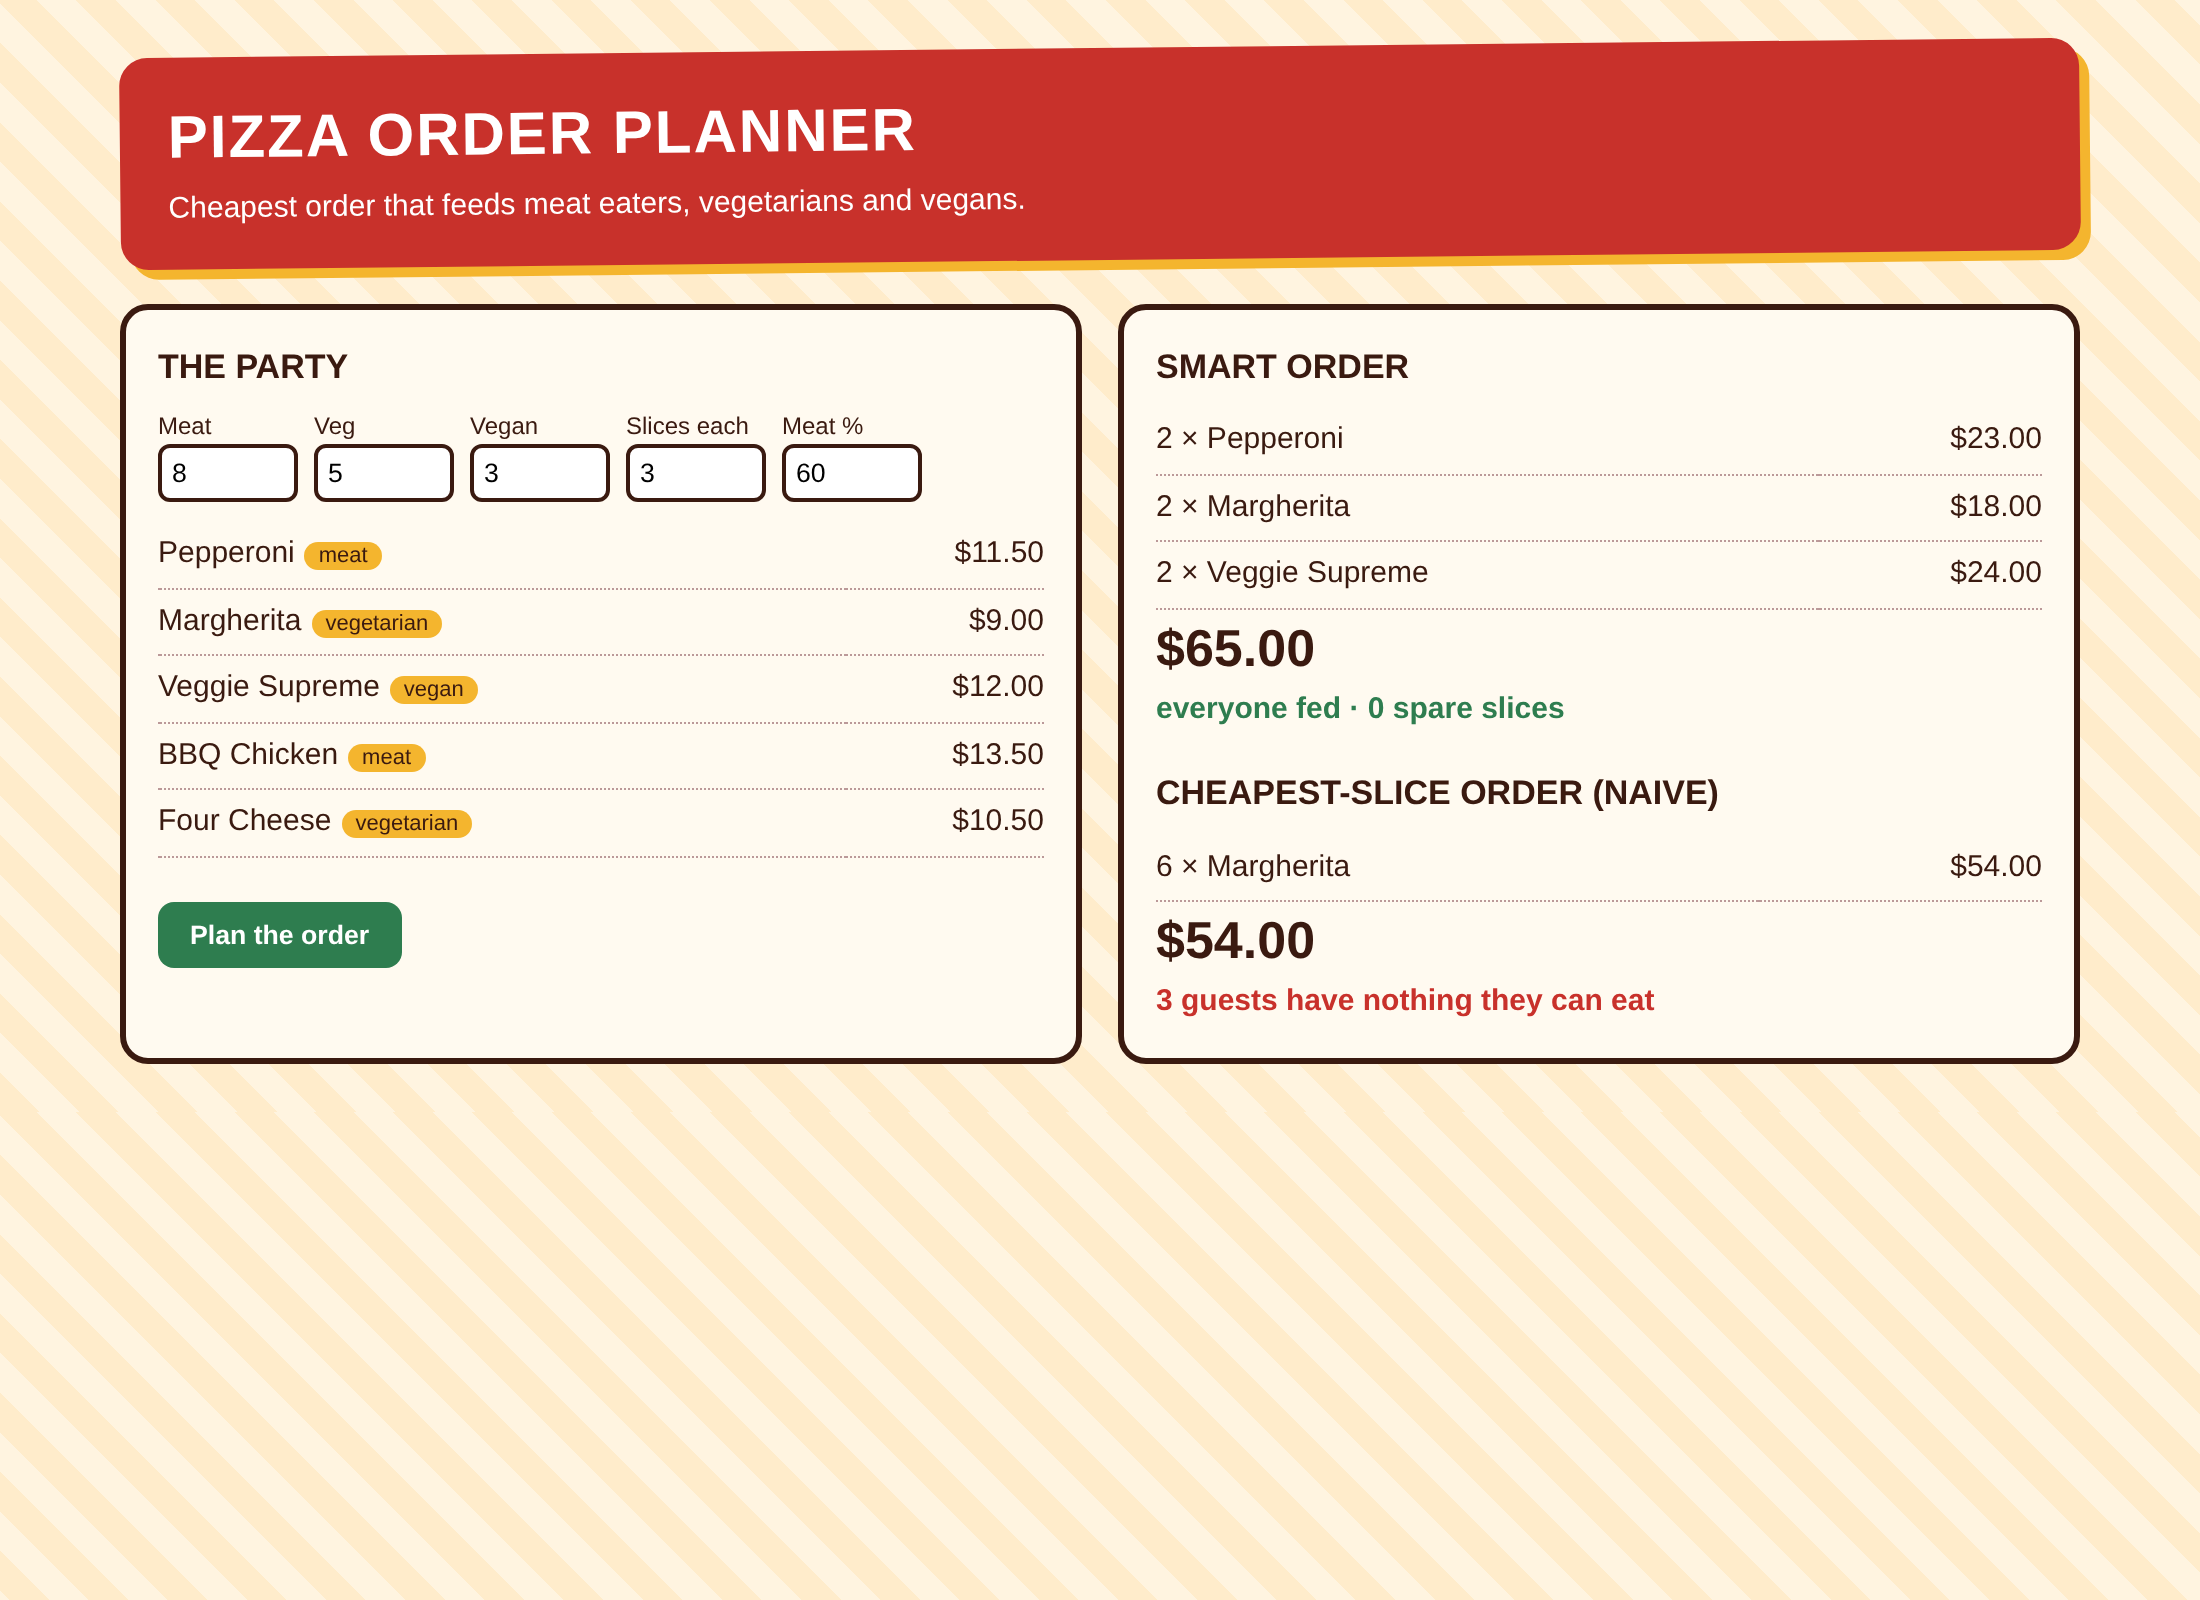
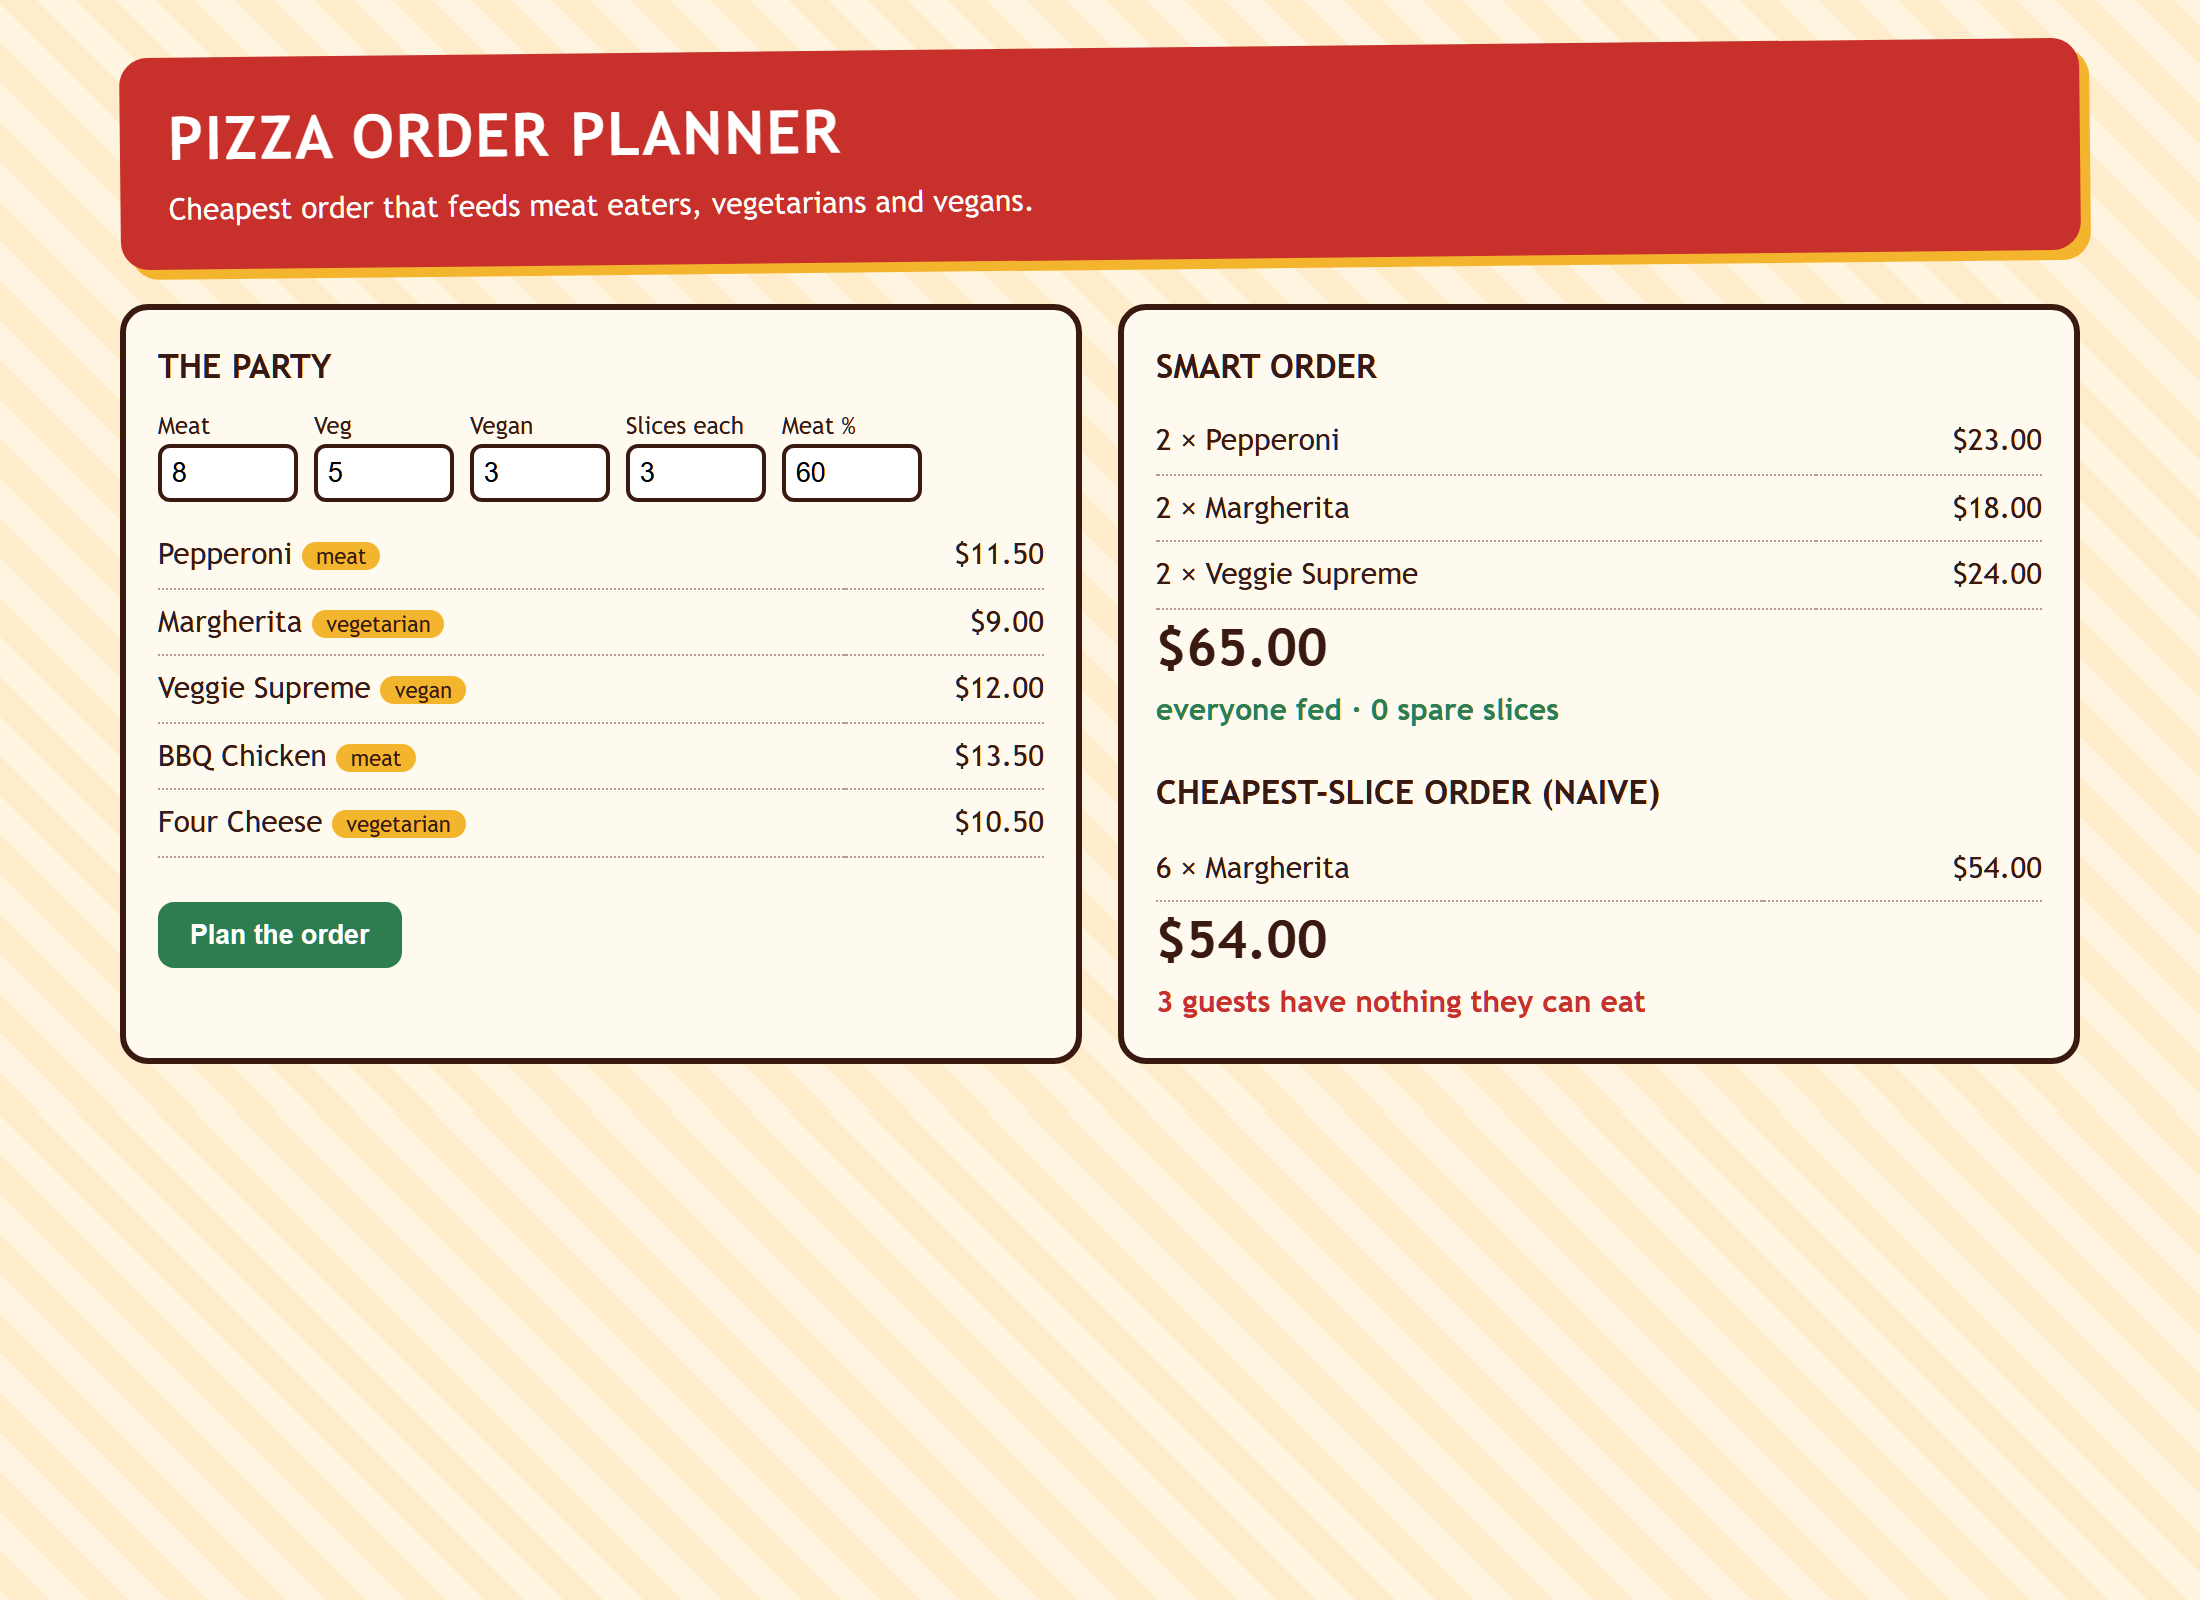
Improve pizza-order-planner

diff --git a/projects/pizza-order-planner/static/index.html b/projects/pizza-order-planner/static/index.html
@@ -13,6 +13,7 @@ button{background:var(--green);color:#fff;border:0;border-radius:8px;padding:9px
 table{width:100%;border-collapse:collapse}td{padding:5px 0;border-bottom:1px dotted #b99}.tot{font-size:26px;font-weight:800}
 .bad{color:var(--red);font-weight:700}.ok{color:var(--green);font-weight:700}#err{color:var(--red)}
 .tag{font-size:11px;background:var(--cheese);padding:1px 7px;border-radius:9px;margin-left:5px}
+@media (prefers-color-scheme: dark){:root{--bg:#1c1410;--ink:#f8e9d6;--card:#2a1d17;--red:#ff7a6e;--green:#2f7a50}body{background:var(--bg)}header{background:#8c1f1a}button{background:#2f7a50;color:#fff}.ok{color:#7fd39a}.tag{color:#1c1410}}
 </style></head><body><main>
 <header><h1>Pizza Order Planner</h1><p>Cheapest order that feeds meat eaters, vegetarians and vegans.</p></header>
 <div class="row"><div class="box"><h2>The party</h2><div class="f" id="f"></div><div id="menu"></div><button id="go">Plan the order</button> <span id="err"></span></div>
@@ -21,10 +22,10 @@ table{width:100%;border-collapse:collapse}td{padding:5px 0;border-bottom:1px dot
 let D;const $=i=>document.getElementById(i);
 const show=(o,id,naive)=>{$(id).innerHTML=`<table>${o.lines.map(l=>`<tr><td>${l.count} × ${l.name}</td><td align=right>$${l.cost.toFixed(2)}</td></tr>`).join('')}</table><div class="tot">$${o.total.toFixed(2)}</div>`+(naive?(o.unfed_guests?`<div class="bad">${o.unfed_guests} guests have nothing they can eat</div>`:'<div class="ok">everyone fed</div>'):`<div class="ok">everyone fed · ${o.spare_slices} spare slices</div>`)};
 async function run(){$('err').textContent='';const people={meat:+$('m').value,vegetarian:+$('v').value,vegan:+$('g').value};
-const r=await fetch('/plan',{method:'POST',headers:{'Content-Type':'application/json'},body:JSON.stringify({slices_each:+$('s').value,meat_pct:+$('x').value,people,menu:D.menu})});
-const j=await r.json();if(!r.ok){$('err').textContent=j.detail;return}show(j.planned,'p',false);show(j.naive,'n',true)}
+try{const r=await fetch('/plan',{method:'POST',headers:{'Content-Type':'application/json'},body:JSON.stringify({slices_each:+$('s').value,meat_pct:+$('x').value,people,menu:D.menu})});
+const j=await r.json();if(!r.ok){$('err').textContent=j.detail;return}show(j.planned,'p',false);show(j.naive,'n',true)}catch(e){$('err').textContent='Could not plan the order. Try again.'}}
 fetch('/sample').then(r=>r.json()).then(d=>{D=d;
 $('f').innerHTML=`<label>Meat<input id=m type=number value=${d.people.meat}></label><label>Veg<input id=v type=number value=${d.people.vegetarian}></label><label>Vegan<input id=g type=number value=${d.people.vegan}></label><label>Slices each<input id=s type=number value=${d.slices_each}></label><label>Meat %<input id=x type=number value=${d.meat_pct}></label>`;
-$('menu').innerHTML='<table>'+d.menu.map(m=>`<tr><td>${m.name}<span class=tag>${m.diet}</span></td><td align=right>$${m.price.toFixed(2)}</td></tr>`).join('')+'</table><br>';run()});
+$('menu').innerHTML='<table>'+d.menu.map(m=>`<tr><td>${m.name}<span class=tag>${m.diet}</span></td><td align=right>$${m.price.toFixed(2)}</td></tr>`).join('')+'</table><br>';run()}).catch(()=>{$('menu').textContent='Could not load the menu. Refresh to try again.'});
 $('go').onclick=run;
 </script></body></html>

diff --git a/projects/pizza-order-planner/tests/test_all.py b/projects/pizza-order-planner/tests/test_all.py
@@ -76,3 +76,9 @@ def test_api():
     assert c.get("/").status_code == 200
     bad = {"slices_each": 3, "people": {"vegan": 1}, "menu": [item("m", 5, "meat")]}
     assert c.post("/plan", json=bad).status_code == 422
+
+
+def test_index_has_error_text_and_dark_scheme():
+    page = c.get("/").text
+    assert "Could not plan the order" in page and "Could not load the menu" in page
+    assert "prefers-color-scheme: dark" in page
